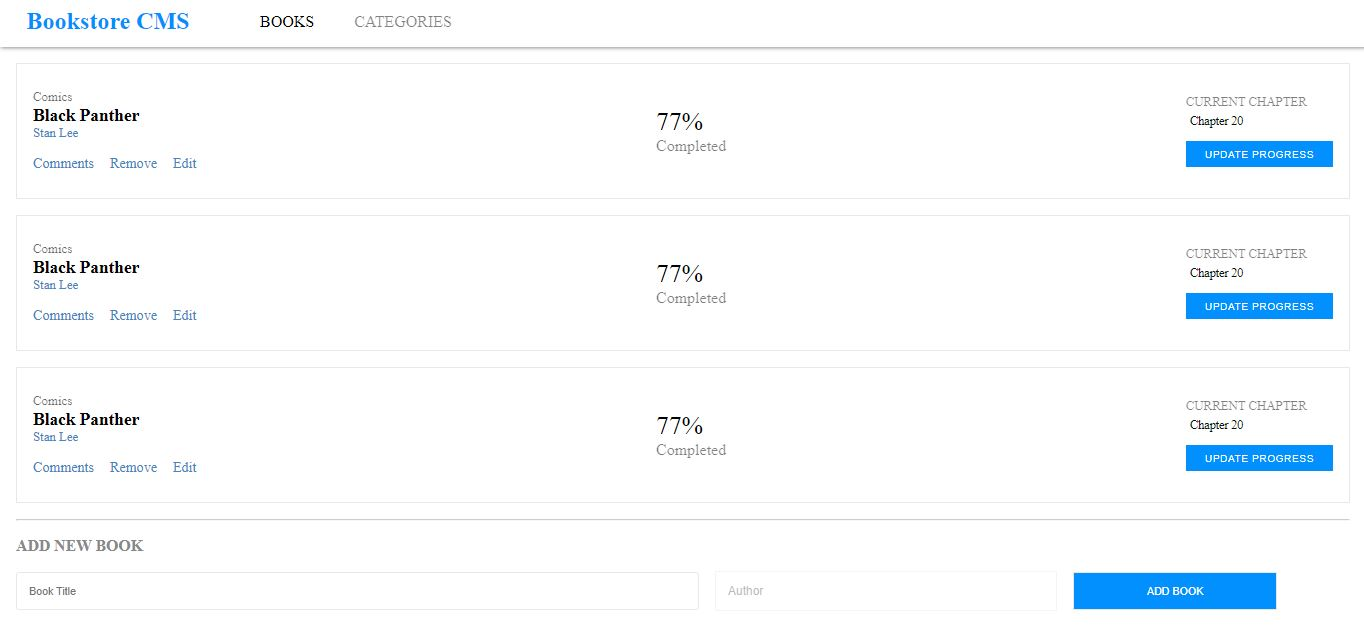
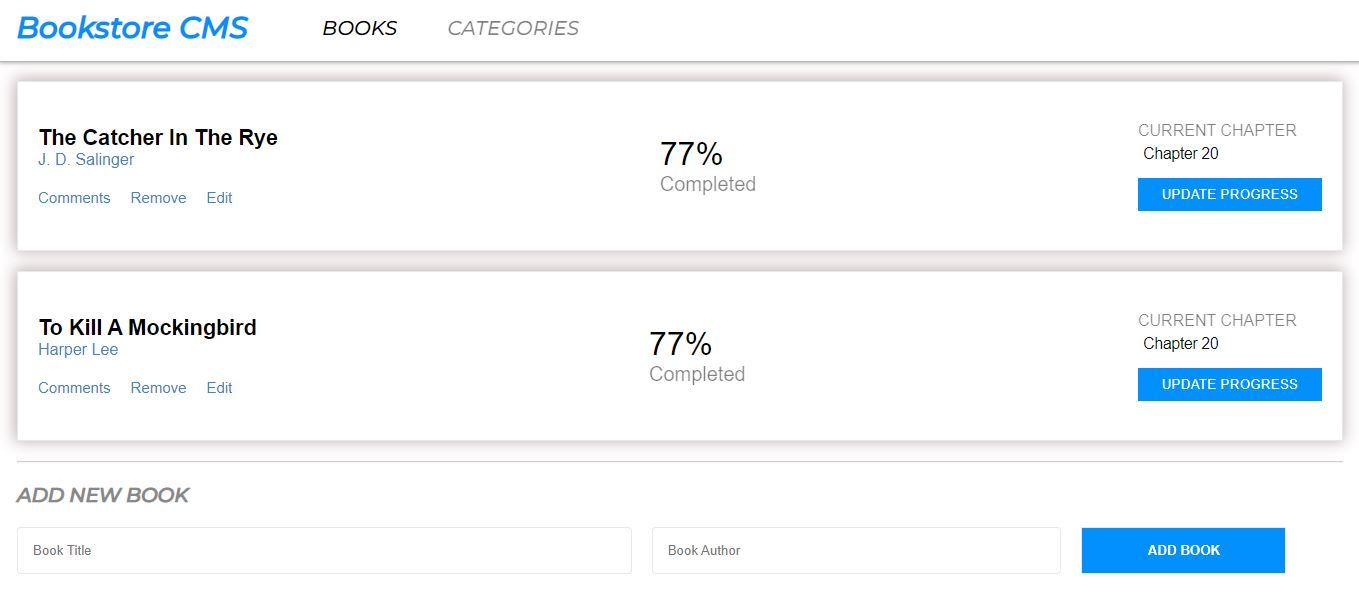
add styling

diff --git a/src/index.css b/src/index.css
@@ -1,3 +1,5 @@
+@import url('https://fonts.googleapis.com/css2?family=Montserrat:ital,wght@1,500&display=swap');
+
 * {
   margin: 0;
   padding: 0;
@@ -12,6 +14,7 @@
   padding: 15px;
   background-color: #fff;
   box-shadow: 1px 1px 5px #858585;
+  font-family: 'Montserrat', sans-serif;
 }
 
 .navBar h3 {
@@ -47,6 +50,13 @@
   font-weight: 100;
 }
 
+button {
+  background-color: #fff;
+  border: #fff;
+  font-size: 15px;
+  color: #4386bf;
+}
+
 .bookItems {
   display: flex;
   justify-content: space-between;
@@ -56,6 +66,8 @@
   margin: 20px;
   padding: 20px;
   height: 10.625rem;
+  font-family: 'RobotoSlab', sans-serif;
+  box-shadow: -1px -1px 15px 2px #c0b5b5;
 }
 
 .details {
@@ -133,6 +145,7 @@
   text-transform: uppercase;
   margin-top: 10px;
   border: none;
+  font-family: 'RobotoSlab', sans-serif;
 }
 
 hr {
@@ -149,29 +162,30 @@ hr {
   line-height: normal;
   letter-spacing: -0.18px;
   color: #888;
+  font-family: 'Montserrat', sans-serif;
 }
 
 .bTitle {
   background-color: #fff;
   border-radius: 4px;
-  width: 50%;
+  width: 45%;
   padding: 15px;
   margin-left: 20px;
   border: 1px solid #e8e8e8;
 }
 
 .bAuthor {
-  width: 27%;
-  margin: 0 0 0 3%;
-  height: 48px;
-  padding: 0 0 0 1%;
-  border: 1px solid #e8e8e8;
+  background-color: #fff;
   border-radius: 4px;
+  width: 30%;
+  padding: 15px;
+  margin-left: 20px;
+  border: 1px solid #e8e8e8;
 }
 
 .field {
   background-color: #fff;
-  width: 25%;
+  width: 30%;
   padding: 15px;
   margin-left: 20px;
   border: 1px solid #e8e8e8;
@@ -186,4 +200,6 @@ hr {
   background-color: #0290ff;
   color: #fff;
   border: 1px solid #e8e8e8;
+  font-family: 'RobotoSlab', sans-serif;
+  font-weight: bold;
 }
